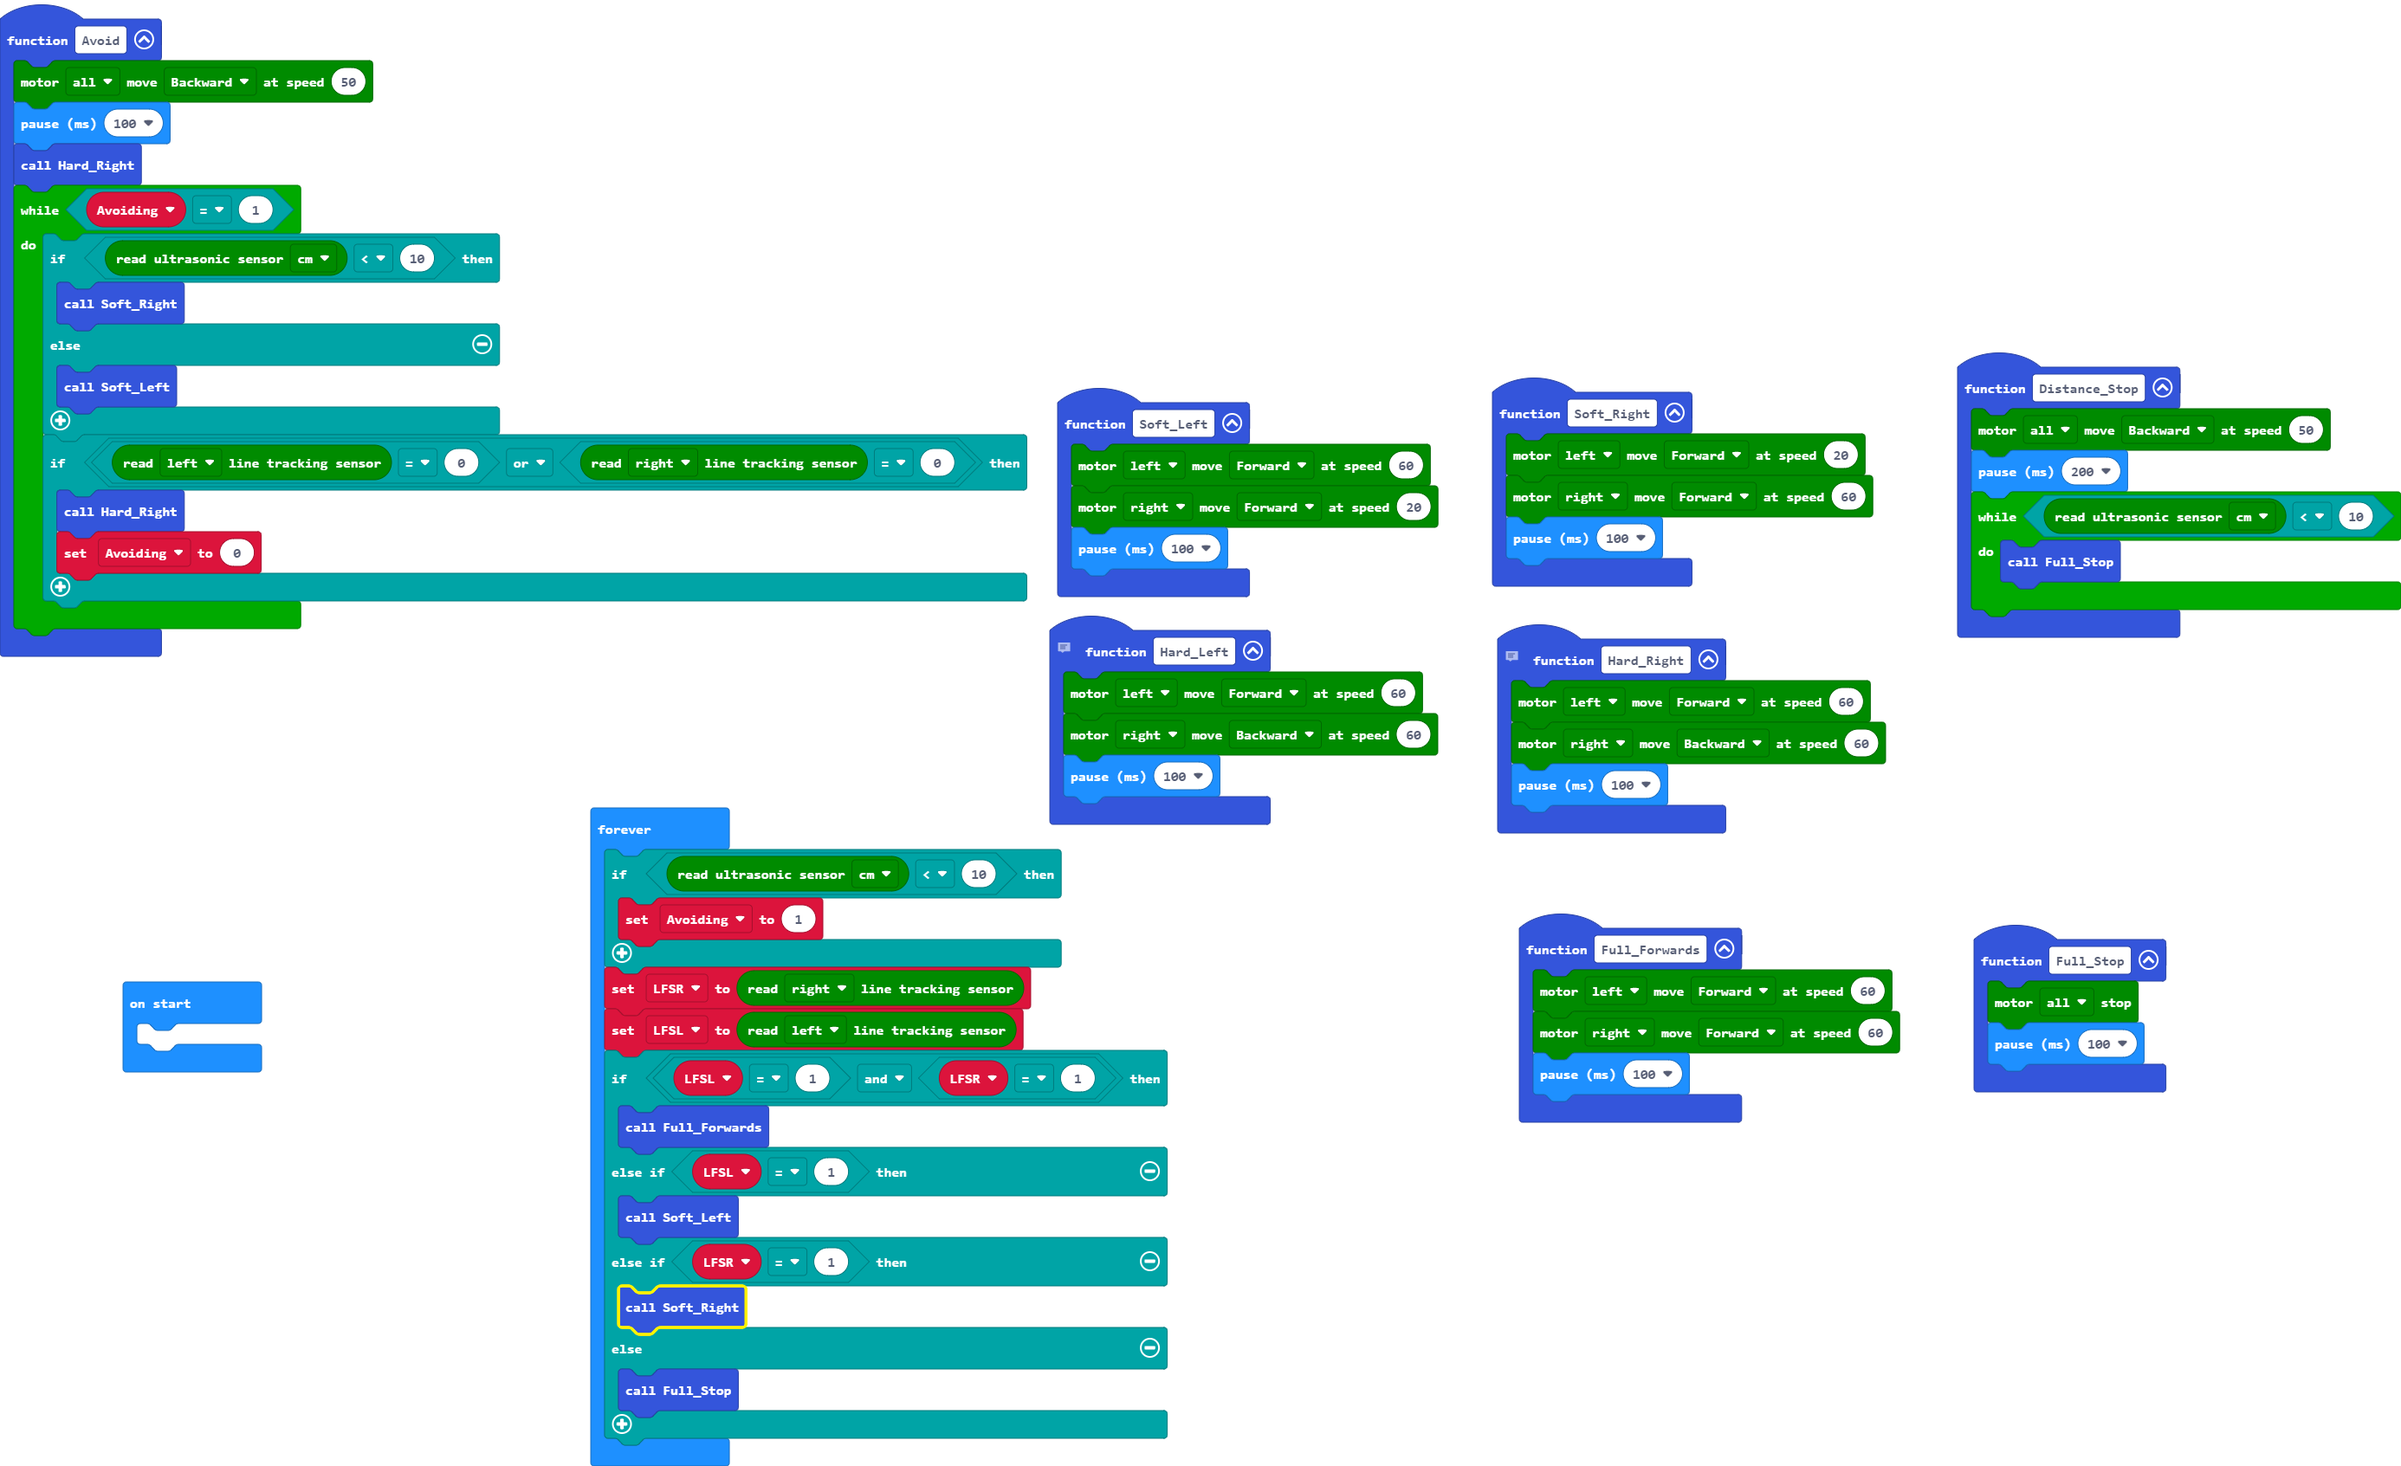
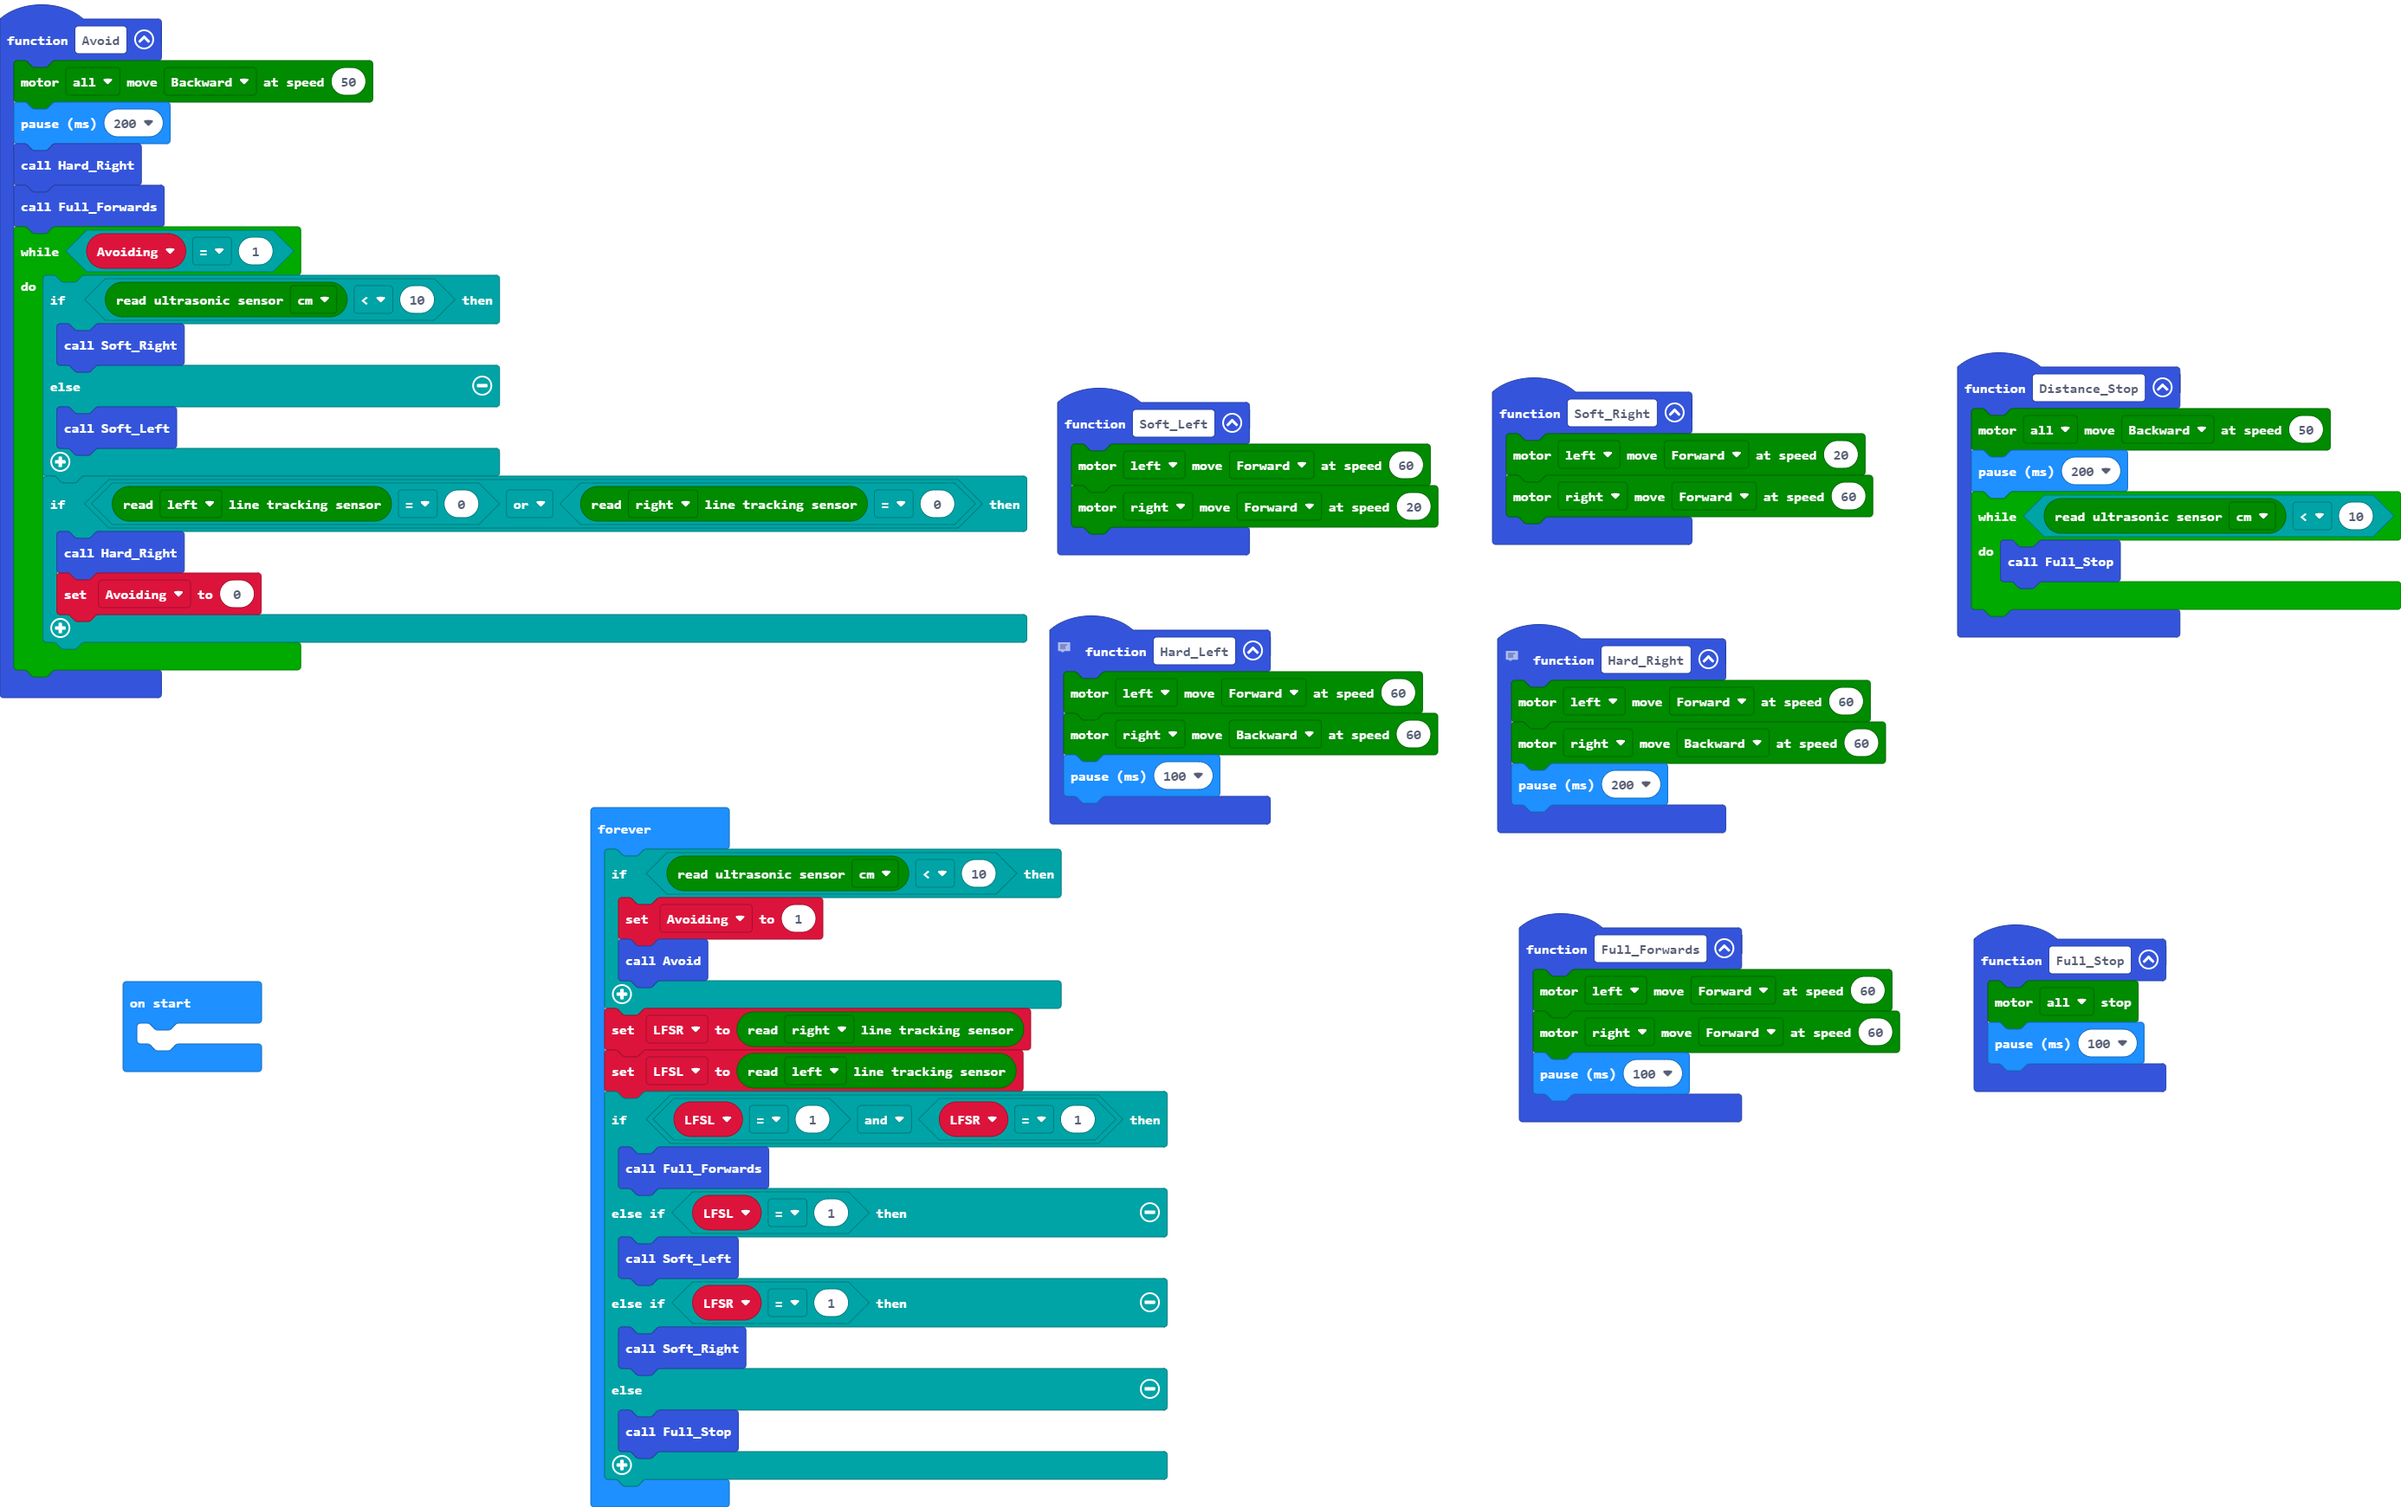
Update main.blocks, main.ts

Changed region(s): [[0.0, 0.0, 0.8997, 0.9829], [0.8066, 0.215, 1.0, 0.4607], [0.031, 0.645, 0.1241, 0.7372]]

diff --git a/main.ts b/main.ts
@@ -13,7 +13,6 @@ function Full_Forwards () {
 function Soft_Left () {
     maqueen.motorRun(maqueen.Motors.M1, maqueen.Dir.CW, 60)
     maqueen.motorRun(maqueen.Motors.M2, maqueen.Dir.CW, 20)
-    basic.pause(100)
 }
 function Distance_Stop () {
     maqueen.motorRun(maqueen.Motors.All, maqueen.Dir.CCW, 50)
@@ -31,18 +30,18 @@ function Hard_Left () {
 function Soft_Right () {
     maqueen.motorRun(maqueen.Motors.M1, maqueen.Dir.CW, 20)
     maqueen.motorRun(maqueen.Motors.M2, maqueen.Dir.CW, 60)
-    basic.pause(100)
 }
 // should be 90 degrees
 function Hard_Right () {
     maqueen.motorRun(maqueen.Motors.M1, maqueen.Dir.CW, 60)
     maqueen.motorRun(maqueen.Motors.M2, maqueen.Dir.CCW, 60)
-    basic.pause(100)
+    basic.pause(200)
 }
 function Avoid () {
     maqueen.motorRun(maqueen.Motors.All, maqueen.Dir.CCW, 50)
-    basic.pause(100)
+    basic.pause(200)
     Hard_Right()
+    Full_Forwards()
     while (Avoiding == 1) {
         if (maqueen.Ultrasonic(PingUnit.Centimeters) < 10) {
             Soft_Right()
@@ -58,6 +57,7 @@ function Avoid () {
 basic.forever(function () {
     if (maqueen.Ultrasonic(PingUnit.Centimeters) < 10) {
         Avoiding = 1
+        Avoid()
     }
     LFSR = maqueen.readPatrol(maqueen.Patrol.PatrolRight)
     LFSL = maqueen.readPatrol(maqueen.Patrol.PatrolLeft)
